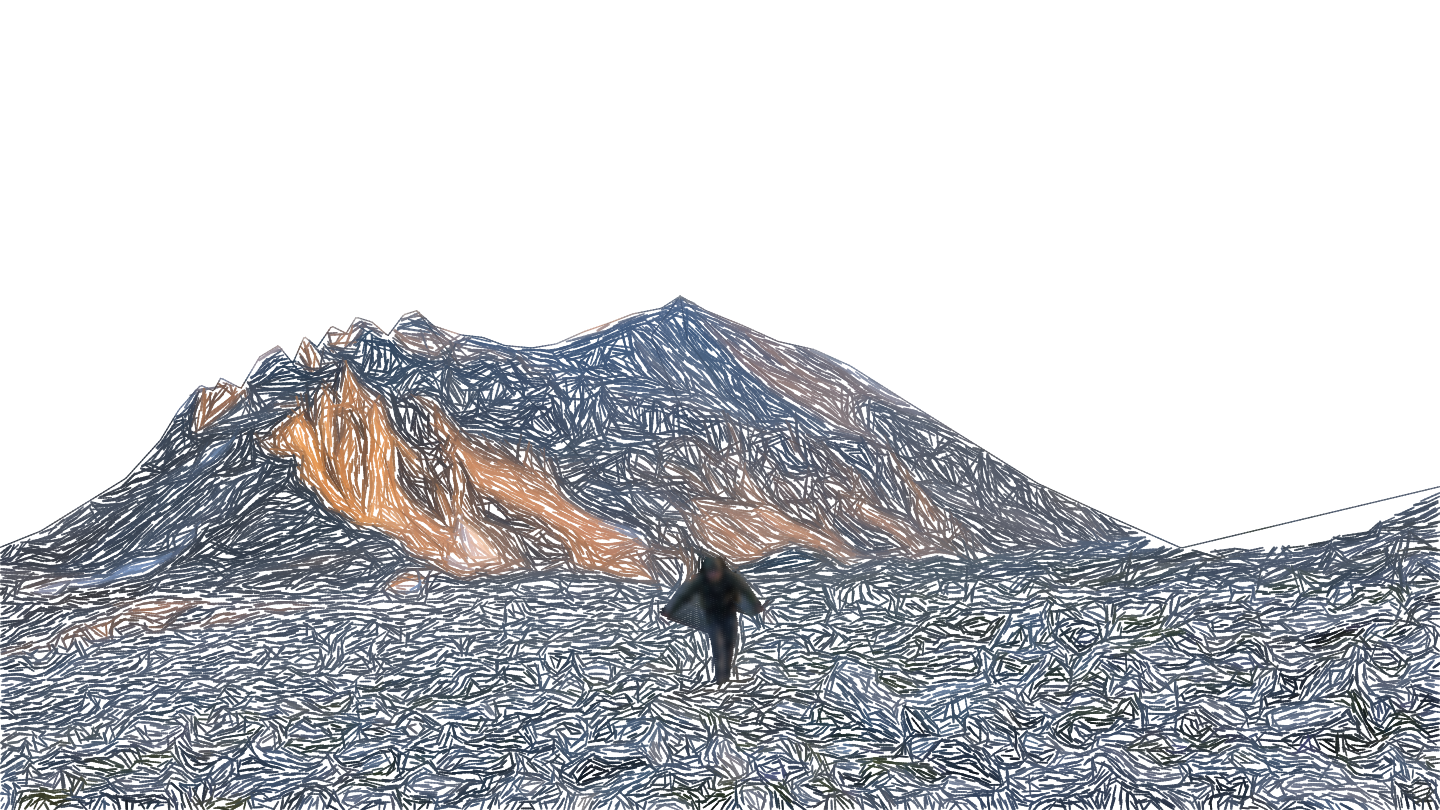
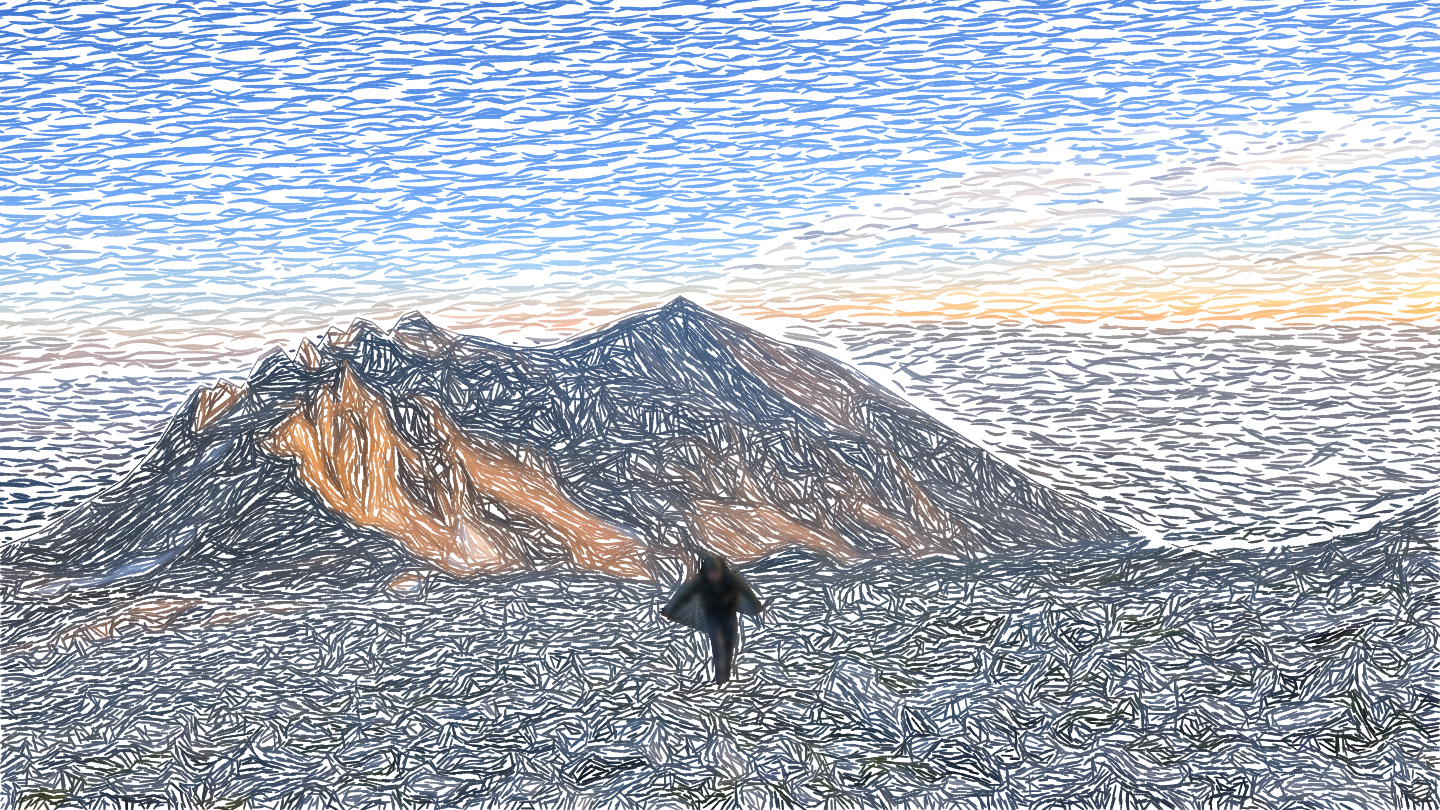
Texture distant landscape and remove progress vignette

Changed region(s): [[0.0, 0.0, 1.0, 0.679]]

diff --git a/styles/site.css b/styles/site.css
@@ -5,18 +5,20 @@ a { color: inherit; text-underline-offset: 5px; }
 button, input { font: inherit; }
 [hidden] { display: none !important; }
 a:focus-visible, button:focus-visible { outline: 2px solid var(--accent); outline-offset: 7px; border-radius: 1px; }
-.field { position: relative; height: 100svh; min-height: 420px; overflow: hidden; isolation: isolate; color: #fff; --resolve: .03; }
-.initial-photo, .initial-photo img, .managed-photo, canvas, .legibility { position: absolute; inset: 0; width: 100%; height: 100%; }
+.field { position: relative; height: 100svh; min-height: 420px; overflow: hidden; isolation: isolate; --resolve: .03; }
+.initial-photo, .initial-photo img, .managed-photo, canvas { position: absolute; inset: 0; width: 100%; height: 100%; }
 .initial-photo img, .managed-photo { object-fit: cover; object-position: var(--position-x, 50%) var(--position-y, 55%); }
 .managed-photo { visibility: hidden; }
 .has-managed .managed-photo { visibility: visible; }
 .has-managed .initial-photo { visibility: hidden; }
 canvas { visibility: hidden; touch-action: pan-y pinch-zoom; cursor: ew-resize; }
 .is-ready canvas { visibility: visible; }
-.legibility { pointer-events: none; background: linear-gradient(to bottom, rgb(13 30 45 / .78), rgb(13 30 45 / .64) 12%, transparent 35%, transparent 75%, rgb(13 30 45 / .66) 92%, rgb(13 30 45 / .78)); }
-.is-drawing { color: var(--ink); }
-.is-drawing .legibility { background: linear-gradient(to bottom, rgb(243 240 231 / .65), rgb(243 240 231 / .4) 12%, transparent 35%, transparent 72%, rgb(243 240 231 / .87)); }
 .masthead { position: absolute; top: max(var(--pad), env(safe-area-inset-top)); left: var(--pad); right: var(--pad); display: flex; align-items: center; justify-content: space-between; gap: 24px; }
+/* Keep contrast local to the lettering so progress never recolors the scene. */
+.masthead h1, .masthead .quiet-link, .field-footer > * { background: rgb(243 240 231 / .94); border-radius: 2px; }
+.masthead h1 { padding: 8px 12px; }
+.masthead .quiet-link, .field-footer .quiet-link { padding: 10px 12px; }
+.field-footer .edition { padding: 8px 10px; }
 h1 { font-size: clamp(17px, 1.35vw, 22px); font-weight: 500; letter-spacing: -.055em; margin: 0; }
 .name-mark { display: inline-block; font-size: 13px; margin-left: 12px; vertical-align: 3px; opacity: .7; }
 .quiet-link { font-size: 13px; text-decoration: none; padding: 10px 0; }
@@ -54,5 +56,5 @@ body.about-open { overflow: hidden; }
 @media (orientation: portrait) { .initial-photo img { object-position: 50% 55%; } .tuner { bottom: max(70px, calc(env(safe-area-inset-bottom) + 55px)); width: 260px; } }
 @media (max-width: 380px) { .name-mark { display: none; } .edition { font-size: 9px; } }
 @media (max-height: 540px) and (orientation: landscape) { .field { min-height: 300px; } .masthead { top: 16px; } .tuner { left: auto; right: var(--pad); transform: none; bottom: 57px; width: 235px; } .field-footer { bottom: 10px; } }
-@media (min-aspect-ratio: 12/5) { .tuner { left: auto; right: var(--pad); transform: none; bottom: 57px; width: 235px; } }
+@media (min-aspect-ratio: 12/5) { .tuner { left: auto; right: var(--pad); transform: none; bottom: 65px; width: 235px; } }
 @media (prefers-reduced-motion: reduce) { *, *::before, *::after { scroll-behavior: auto !important; } }

diff --git a/src/main.js b/src/main.js
@@ -27,7 +27,6 @@ function syncUI() {
   range.value = Math.round(target * 1000);
   range.setAttribute('aria-valuetext', `${Math.round(target * 100)} percent drawn`);
   number.textContent = String(Math.round(target * 100)).padStart(3, '0');
-  field.classList.toggle('is-drawing', current < .82);
 }
 function paint() {
   if (failed) return;
@@ -56,7 +55,7 @@ function fail(error) {
   cancelAnimationFrame(raf); raf = 0;
   input?.dispose(); observer?.disconnect(); renderer?.dispose();
   tuner.hidden = true;
-  field.classList.remove('is-ready', 'is-drawing', 'is-complete');
+  field.classList.remove('is-ready', 'is-complete');
   field.dataset.renderer = 'fallback';
 }
 function resize() {

diff --git a/tests/browser/landscape.spec.js b/tests/browser/landscape.spec.js
@@ -83,9 +83,9 @@ test('no JavaScript exposes biography and drawing', async ({ browser }) => {
   await context.close();
 });
 
-test('capture five desktop states and mobile composition', async ({ page }, testInfo) => {
+test('capture drawing stages and mobile composition', async ({ page }, testInfo) => {
   await page.emulateMedia({ reducedMotion: 'reduce' }); await ready(page);
-  for (const p of [0, 150, 250, 300, 450, 500, 600, 750, 900, 1000]) {
+  for (const p of [0, 150, 250, 300, 450, 500, 600, 750, 810, 820, 830, 900, 1000]) {
     await resolve(page, p);
     await page.locator('#resolve').blur();
     await page.screenshot({ path: testInfo.outputPath(`desktop-${p}.png`) });

diff --git a/index.html b/index.html
@@ -18,7 +18,6 @@
     </picture>
     <img id="managed-photo" class="managed-photo" alt="" aria-hidden="true">
     <canvas id="landscape" aria-hidden="true"></canvas>
-    <div class="legibility" aria-hidden="true"></div>
     <header class="masthead">
       <h1>Peter Gramaglia<span class="name-mark" aria-hidden="true">↗</span></h1>
       <a class="about-link quiet-link" href="#about">About <span aria-hidden="true">↗</span></a>

diff --git a/scripts/prepare-strokes.py b/scripts/prepare-strokes.py
@@ -25,7 +25,7 @@ class Plate:
         self.rgb=np.zeros((h,w,3),np.float32)
         self.alpha=np.zeros((h,w),np.float32)
         self.time=np.ones((h,w),np.float32)
-    def path(self,points,width,color,start,span,opacity=1):
+    def path(self,points,width,color,start,span,opacity=1,taper=False):
         p=np.asarray(points,dtype=float)
         if len(p)<2:return
         d=np.linalg.norm(np.diff(p,axis=0),axis=1);cum=np.r_[0,np.cumsum(d)]
@@ -42,7 +42,9 @@ class Plate:
             yy,xx=np.mgrid[y0:y1,x0:x1]
             t=np.clip(((xx-a[0])*(b[0]-a[0])+(yy-a[1])*(b[1]-a[1]))/(length*length),0,1)
             dist=np.hypot(xx-a[0]-t*(b[0]-a[0]),yy-a[1]-t*(b[1]-a[1]))
-            cov=np.clip(r+.6-dist,0,1)*opacity
+            progress=np.clip((cum[i]+t*length)/cum[-1],0,1) if taper else 0
+            radius=r*(.18+.82*np.sin(np.pi*progress)**.45) if taper else r
+            cov=np.clip(radius+.6-dist,0,1)*opacity
             c=colors if fixed else colors[i][None,None,:]*(1-t[:,:,None])+colors[i+1][None,None,:]*t[:,:,None]
             olda=self.alpha[y0:y1,x0:x1]
             oldrgb=self.rgb[y0:y1,x0:x1]
@@ -277,6 +279,71 @@ def make(name):
         valid=mask[np.clip(yy.astype(int),0,h-1),np.clip(xx.astype(int),0,w-1)]
         p=np.column_stack((xx[valid],yy[valid]))
         if len(p)>1:plates[2].path(p,1.7,sample(p)*.87,.65+rng.uniform(0,.12),.12,1)
+    # The original broad pass remains only at the near-ridge boundary. Replace
+    # its background with independent brush gestures; a separate random stream
+    # preserves every authored foreground/midground mark and its reveal timing.
+    background=[Plate(w,h),Plate(w,h)]
+    brush_rng=np.random.default_rng(19042)
+    far_horizon={
+        'desktop': [(0,.472),(.22,.438),(.47,.401),(.60,.391),(.72,.400),(.86,.398),(1,.395)],
+        'mobile': [(0,.395),(.44,.355),(.60,.355),(.78,.360),(1,.361)]
+    }
+    horizon=geo.curve(far_horizon[name],xs)*h
+    def background_region(x,y):
+        ix=int(np.clip(x,0,w-1));iy=int(np.clip(y,0,h-1))
+        if y>=skyline[ix]-2:return None
+        if y>horizon[ix]:return 'distant'
+        color=source[iy,ix]
+        return 'cloud' if color[2]-color[0]<55 and lum[iy,ix]>140 else 'sky'
+    # Staggered, jittered brush starts avoid ruled rows. The long axis curves
+    # independently for each gesture and tapers at both ends, leaving paper
+    # between marks rather than adding photographic grain to a solid fill.
+    for pass_index,spacing in enumerate([3.9,4.5]):
+        for y0 in np.arange(-8,np.max(skyline)+8,spacing):
+            x=-brush_rng.uniform(0,80)
+            while x<w+25:
+                y=y0+brush_rng.uniform(-spacing*.65,spacing*.65)
+                region=background_region(x,y)
+                distant=region=='distant'
+                if pass_index==0:
+                    length=brush_rng.uniform(24,65) if distant else brush_rng.uniform(48,125)
+                    width=brush_rng.uniform(8,11) if distant else brush_rng.uniform(7,10)
+                else:
+                    length=brush_rng.uniform(14,38) if distant else brush_rng.uniform(20,57)
+                    width=brush_rng.uniform(1.8,3.2) if distant else brush_rng.uniform(2,3.5)
+                if region is not None:
+                    ix=int(np.clip(x,0,w-1));iy=int(np.clip(y,0,h-1))
+                    if distant:
+                        # Local ridge/valley direction gives distant land its
+                        # own short facets, distinct from the open sky sweeps.
+                        angle=theta[iy,ix]
+                        angle=((angle+np.pi/2)%np.pi-np.pi/2)*.48
+                    else:
+                        angle=-.06+brush_rng.uniform(-.10,.10)
+                    bend=brush_rng.uniform(-3.2,3.2) if distant else brush_rng.uniform(-4.5,4.5)
+                    u=np.linspace(0,1,max(5,int(length/5)))
+                    p=np.column_stack((x+np.cos(angle)*length*u,
+                                       y+np.sin(angle)*length*u+bend*np.sin(np.pi*u)))
+                    # Restrict the whole mark to one family of forms; no brush
+                    # can carry blue sky through a cloud or into a distant ridge.
+                    keep=np.array([background_region(px,py)==region for px,py in p])
+                    for ids in np.split(np.arange(len(p)),np.flatnonzero(np.diff(keep))+1):
+                        if len(ids)<2 or not keep[ids[0]]:continue
+                        stroke=p[ids];col=sample(stroke)
+                        col=col*.22+np.mean(col,axis=0)*.78
+                        variation=brush_rng.uniform(-4,4) if region=='sky' else brush_rng.uniform(-7,7)
+                        col=np.clip(col+variation,0,255)
+                        start=(.14+max(y,0)/h*.20+brush_rng.uniform(0,.13)) if pass_index==0 else brush_rng.uniform(.45,.80)
+                        span=brush_rng.uniform(.10,.17) if pass_index==0 else brush_rng.uniform(.09,.16)
+                        background[pass_index].path(stroke,width,col,start,span,.98,taper=True)
+                x+=length*brush_rng.uniform(.80,1.07)+brush_rng.uniform(2,8)
+    # Pixel-level replacement leaves the near mountains and foreground exactly
+    # as authored, including their antialiased edges and six-sampler layout.
+    background_mask=np.arange(h)[:,None]<skyline[None,:]-3
+    for plate,replacement in zip(plates[1:],background):
+        plate.rgb[background_mask]=replacement.rgb[background_mask]
+        plate.alpha[background_mask]=replacement.alpha[background_mask]
+        plate.time[background_mask]=replacement.time[background_mask]
     # Preserve lengthwise growth while moving color into the second half.
     for plate,old_start,old_end,new_start,new_end in [
         (plates[1],.12,.60,.46,.90),(plates[2],.45,.96,.70,.985)]:

diff --git a/README.md b/README.md
@@ -29,7 +29,7 @@ npx playwright install chromium
 PLAYWRIGHT_CHANNEL=chromium npm run test:browser
 ```
 
-Tests cover real WebGL initialization, keyboard and pointer input, cancellation, responsive swaps and cached returns, About focus, no-JS/module/graphics/image failures, reduced motion, and short/narrow layouts. Screenshots at five resolve values and mobile/short layouts are saved under ignored `test-results/`. `@playwright/test` is a development dependency only; the deployed page uses no runtime libraries or third-party network services.
+Tests cover real WebGL initialization, keyboard and pointer input, cancellation, responsive swaps and cached returns, About focus, no-JS/module/graphics/image failures, reduced motion, and short/narrow layouts. Screenshots across the drawing stages, including 81/82/83 percent and mobile/short layouts, are saved under ignored `test-results/`. `@playwright/test` is a development dependency only; the deployed page uses no runtime libraries or third-party network services.
 
 ## Design and implementation
 
@@ -44,7 +44,7 @@ The [stroke revision](docs/stroke-revision.md) describes the current drawing beh
 
 There are two aspect-specific drawing sets. The desktop composition uses Peter's approved AI-expanded panorama, with the left ridge corrected against a second reference photograph. The mobile drawing is based on the original portrait photograph. Generated edges are disclosed in About. Contour-like marks are an artistic drawing, not elevation data. No coordinates, EXIF, or camera/location metadata are retained in the published derivatives.
 
-At every slider position, the artwork consists of drawn strokes on ivory. Each stroke has a per-pixel arrival time that increases along its path. The first half develops a detailed sketch of the ridges, clouds, climber, and rocks; pale wisps arrive afterward. Separate coverage and pigment ramps reserve the fully saturated painting for the endpoint. At full progress the canvas remains a colored drawing. No source photograph is loaded at runtime. The static fallback is the finished drawing, composited from the same delivered stroke plates. Navigation legibility shading is separate. No continuous animation runs after the control settles; reduced motion removes easing while preserving direct control.
+At every slider position, the artwork consists of drawn strokes on ivory. Each stroke has a per-pixel arrival time that increases along its path. The first half develops a detailed sketch of the ridges, clouds, climber, and rocks; pale wisps arrive afterward. Separate coverage and pigment ramps reserve the fully saturated painting for the endpoint. At full progress the canvas remains a colored drawing. No source photograph is loaded at runtime. The static fallback is the finished drawing, composited from the same delivered stroke plates. Small, constant paper backgrounds behind the navigation text provide contrast without shading the scene. No continuous animation runs after the control settles; reduced motion removes easing while preserving direct control.
 
 ### Regenerating assets
 
@@ -56,7 +56,7 @@ python3 -m venv /tmp/resolve-assets-env
 /tmp/resolve-assets-env/bin/python scripts/prepare-strokes.py
 ```
 
-The stroke generator samples the checked-in `assets/{desktop,mobile}/photo.webp` authoring inputs, writes lossless RGBA ink plates and PNG timing maps, and produces `/tmp/resolve-strokes-preview.jpg` for art review. `prepare-assets.py` retains the original source-normalization helpers and ridge geometry used by the stroke generator; it belongs to the first iteration and is not a deployment step. Inspect stroke growth and all checkpoints whenever changing inputs or parameters; the geometry is specific to this landscape.
+The stroke generator samples the checked-in `assets/{desktop,mobile}/photo.webp` authoring inputs, writes lossless RGBA ink plates and PNG timing maps, and produces `/tmp/resolve-stages-preview.jpg` for art review. `prepare-assets.py` retains the original source-normalization helpers and ridge geometry used by the stroke generator; it belongs to the first iteration and is not a deployment step. Inspect stroke growth and all checkpoints whenever changing inputs or parameters; the geometry is specific to this landscape.
 
 ## Limits
 

diff --git a/docs/review-notes.md b/docs/review-notes.md
@@ -58,3 +58,11 @@ Broad wisps begin after 45 percent; fine colored marks and saturation develop la
 Astra high rendering, accessibility, and visual reviewers approved the updated code and actual checkpoints. The visual reviewer specifically confirmed new scene features appearing after 15 percent, a detailed pencil drawing at 60 percent, restrained color at 75 percent, and meaningful completion between 90 and 100 percent.
 
 Validation: 10 Node tests and 17 local Chrome browser tests pass. New tests use actual GPU output to verify substantial ink growth from 15 to 30 to 45 percent, no premature pigment, and more than 10 percent chroma growth from 90 to 100 percent. The existing endpoint/fallback comparison, interaction, failure, and responsive tests also pass. Browser verification limits remain as stated above.
+
+## Background brushwork and removal of the vignette
+
+Removed the full-screen navigation gradient and its abrupt 82-percent switch. Constant ivory surfaces immediately behind the text provide contrast throughout the drawing and fallback states. The sky, clouds, and distant mountains now use curved, tapered colored strokes with varied spacing and direction, replacing the smooth, closely spaced horizontal background ribbons. The foreground and midground treatment and the slow sketch-to-color progression remain intact.
+
+Independent Astra high accessibility, rendering, and visual reviewers approved the change. Reviews included desktop/mobile compositions, 320px, short and ultrawide layouts, and actual browser captures at 81, 82, and 83 percent. Added spacing separates the ultrawide tuner from Contact. Asset comparison confirmed byte-identical sketch plates/timing, unchanged finished pixels at and below the near skyline in both compositions, unchanged color plates/timing below the four-pixel edge gutter, and no untimed covered pixels. The lossless endpoint remains an exact offline composite; the real GPU/fallback comparison also passes.
+
+Final validation: 10 Node tests and 17 local Chrome browser tests pass. An earlier screenshot run entered fallback once; its targeted rerun and the final full run passed. Updated previews show the unshaded artwork and new background texture. Texture count, dimensions, resource bounds, interaction, and fallback contracts are unchanged. The browser/device coverage limits above still apply.

diff --git a/docs/stroke-revision.md b/docs/stroke-revision.md
@@ -33,3 +33,9 @@ Peter's next review identified that the complete sketch arrived in the first 15 
 The sketch plate now carries structural arrival times through approximately 60 percent. Broad colored paths begin around 46 percent and grow through the later slider range; their global opacity rises smoothly from 45 to 100 percent. Fine wisps arrive around 70–98.5 percent, with their opacity rising from 68 to 100 percent. Saturation remains zero through 62 percent and reaches its full strength only at 100 percent. The pencil sketch remains fully present through 72 percent, then recedes as the painting comes together.
 
 `src/progression.js` owns the renderer's opacity/saturation bounds. Stroke arrival maps control path growth separately. The final fallback composites only the two color plates, matching the shader's fully faded sketch at the endpoint. New tests require substantial actual sketch-ink growth between 15, 30, and 45 percent, no premature pigment, and a meaningful saturation increase between 90 and 100 percent. Browser checkpoints now include 15, 30, 45, 60, and 90 percent in addition to the original five.
+
+## Unshaded artwork and background brushwork
+
+The full-screen navigation gradient previously switched from light to dark at 82 percent. It is removed, along with the progress-dependent text-color class. Navigation text instead sits on small, constant ivory surfaces, so the drawing's own colored marks determine light and shade throughout the slider range. Browser captures include 81, 82, and 83 percent to inspect continuity around the former threshold.
+
+The sky, clouds, and distant terrain receive their own curved colored brush gestures and finer marks. A separate distant horizon distinguishes the right-hand background mountains from open sky. Shorter, tapered paths, varied spacing, and exposed paper give these regions visible texture. Background generation uses a separate random stream and replaces only the area above the nearer mountain silhouette, preserving the existing foreground and midground marks. The three-plate rendering contract and sketch/color progression remain unchanged.
